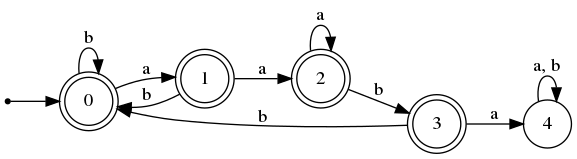
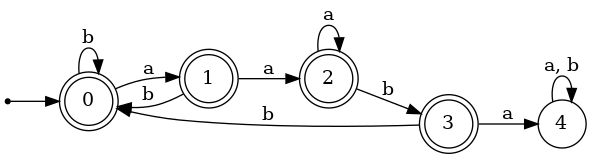
Updated example scripts.

diff --git a/examples/scripts/tuto2.1.py b/examples/scripts/tuto2.1.py
@@ -1,6 +1,6 @@
 #!/usr/bin/python3
 
-# @file example script for tutorial: https://wp.me/p9qb6x-9f
+# @file example script for tutorial 2: https://wp.me/p9qb6x-9f
 
 import util
 from algorithms import *
@@ -17,5 +17,5 @@ print(f"Complete(a): {a}")
 print(f"Is complete: {is_complete(a)}")
 
 util.save(a, "../abc*_complete.dfa")
-util.to_png(a, "../abc*_complete.png")
+util.to_png(a, "../abc*_complete.png", group=True)
  

diff --git a/examples/scripts/tuto3.2.py b/examples/scripts/tuto3.2.py
@@ -1,0 +1,17 @@
+#!/usr/bin/python3
+
+# @file example script for tutorial 3: https://wp.me/p9qb6x-9f
+
+
+from util import *
+from algorithms import *
+
+a1 = read("../pair_a_X_not_*bb*.dfa")
+a2 = read("../*aaba*_neg.dfa")
+
+p = product(a1, a2)
+print(f"product of p and *aaba*_neg:\n {p}")
+
+name = "pair_a_X_not_*bb*_X_*aaba*_neg"
+save(p, f"../{name}.dfa")
+to_png(p, f"../{name}.png", group=True)

diff --git a/examples/scripts/tuto3.1.py b/examples/scripts/tuto3.1.py
@@ -1,0 +1,17 @@
+#!/usr/bin/python3
+
+# @file example script for tutorial 3: https://wp.me/p9qb6x-9f
+
+
+from util import *
+from algorithms import *
+
+pair_a = read("../pair_a.dfa")
+not_bb = read("../not_*bb*.dfa")
+
+p = product(pair_a, not_bb)
+print(f"product of pair_a and not_bb:\n {p}")
+
+name = "pair_a_X_not_*bb*"
+save(p, f"../{name}.dfa")
+to_png(p, f"../{name}.png", group=True)

diff --git a/examples/scripts/tuto3.0.py b/examples/scripts/tuto3.0.py
@@ -1,0 +1,17 @@
+#!/usr/bin/python3
+
+# @file example script for tutorial 3: https://wp.me/p9qb6x-9f
+
+
+from util import *
+from algorithms import *
+
+a = read("../*aaba*.dfa")
+a = negate(a)
+print(f"negation of a:\n {a}")
+
+save(a, "../*aaba*_neg.dfa")
+to_png(a, "../*aaba*_neg.png", group=True)
+
+print("negation of na.dfa:")
+negate(read("../not_accessible.dfa")) # error

diff --git a/src/DFA.py b/src/DFA.py
@@ -96,7 +96,7 @@ class DFA:
         ret += "   - states (%d) :\n" % (len(self.states))
         for state in self.states:
             ret += "       - (%s)" % (state)
-            if len(self.transitions[state]) is 0:
+            if len(self.transitions[state]) == 0:
                 ret += ".\n"
             else:
                 ret += ":\n"

diff --git a/src/algorithms.py b/src/algorithms.py
@@ -246,7 +246,8 @@ def equivalent_states(dfa):
         else:
             partition[1].append(state)
 
-    def partition_group(state_group):
+    # TODO: not implemented...
+    #def partition_group(state_group):
 
 
 

diff --git a/examples/scripts/tuto2.0.py b/examples/scripts/tuto2.0.py
@@ -1,6 +1,6 @@
 #!/usr/bin/python3
 
-# @file example script for tutorial: https://wp.me/p9qb6x-9f
+# @file example script for tutorial 2: https://wp.me/p9qb6x-9f
 
 import util
 from algorithms import *

diff --git a/examples/scripts/tuto2.2.py b/examples/scripts/tuto2.2.py
@@ -1,6 +1,6 @@
 #!/usr/bin/python3
 
-# @file example script for tutorial: https://wp.me/p9qb6x-9f
+# @file example script for tutorial 2: https://wp.me/p9qb6x-9f
 
 import util
 from algorithms import *

diff --git a/examples/scripts/tuto1.1.py b/examples/scripts/tuto1.1.py
@@ -1,6 +1,6 @@
 #!/usr/bin/python3
 
-# @file example script for tutorial: https://wp.me/p9qb6x-7n
+# @file example script for tutorial 1: https://wp.me/p9qb6x-7n
 
 import DFA
 a = DFA.DFA("ab")

diff --git a/examples/scripts/tuto1.0.py b/examples/scripts/tuto1.0.py
@@ -1,6 +1,6 @@
 #!/usr/bin/python3
 
-# @file example script for tutorial: https://wp.me/p9qb6x-7n
+# @file example script for tutorial 1: https://wp.me/p9qb6x-7n
 
 import DFA
 
